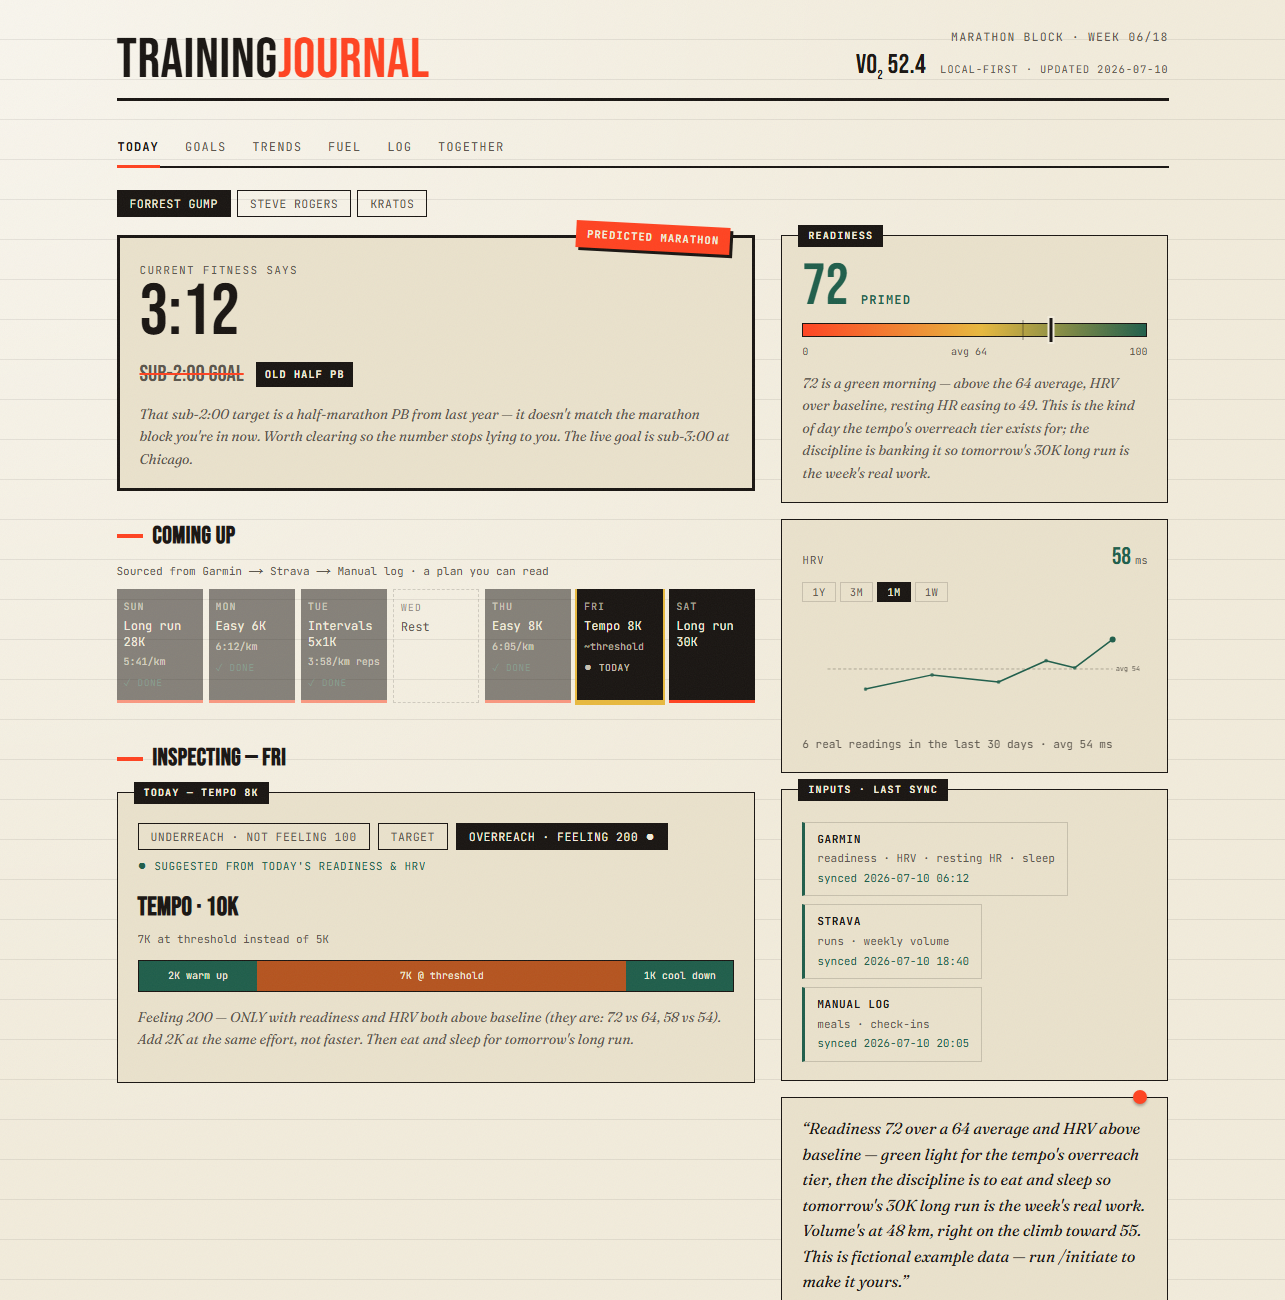
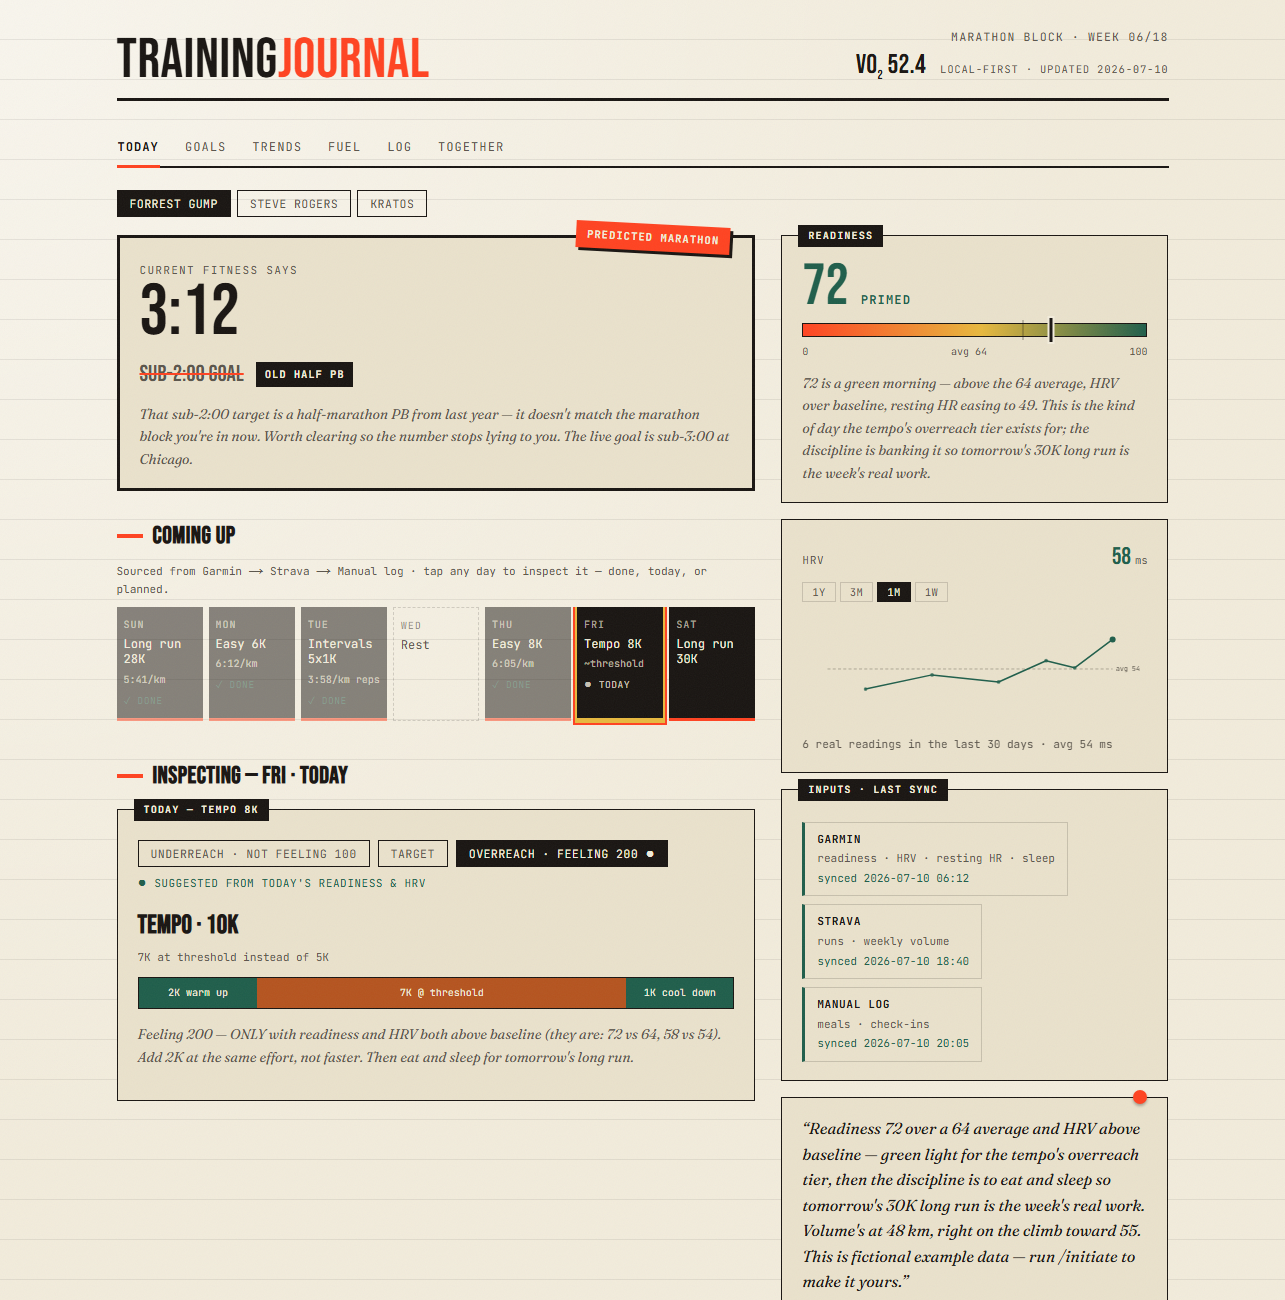
Click any day to inspect its workout + fix mobile overflow
Inspect:
- The week strip is now interactive — click (or keyboard-select) any day to
  load it into the Inspecting panel: past (shows what was completed), today
  (the tiered session), or planned (day-of detail note). Replaces the fixed
  Today + Up-next pair with one selection-driven panel; the selected day is
  outlined. Falls back to today when a stored date isn't in the current
  person's week.

Mobile:
- Root cause of the ~390px horizontal overflow was the grid min-width:auto
  trap: `.dash` used `grid-template-columns: 1fr` (= minmax(auto,1fr)), so the
  column refused to shrink below content and pushed the page wider. Fixed with
  minmax(0,1fr) + min-width:0 on the grid children.
- Harden auto-fit grids with minmax(min(Xpx,100%),1fr); add body overflow-x:
  clip as a sticky-safe net.
- Mobile refinements: scrollable nav, left-aligned header meta, wrapping
  strength table, smaller display type, in-flow race-bib.

Refresh the hero screenshot (the strip now says "tap any day to inspect").

Changed region(s): [[0.0934, 0.4308, 0.5914, 0.8308], [0.3735, 0.4308, 0.5914, 0.5846]]

diff --git a/app/page.tsx b/app/page.tsx
@@ -181,8 +181,14 @@ function SessionCard({ session, data }: { session: Session; data: PersonData }) 
           <p className="why">{detail.why}</p>
         </>
       )}
-      {!detail && !session.note && session.kind !== "rest" && session.status === "upcoming" && (
-        <p className="hint">Full detail lands the morning of — workouts are generated day-of from that day&apos;s readiness.</p>
+      {!detail && (
+        <p className="hint">
+          {session.kind === "rest"
+            ? "Rest day — recovery is the session."
+            : session.status === "done"
+            ? `Completed${session.sub ? ` · ${session.sub}` : ""}${session.note ? "." : " — logged from your tracker."}`
+            : `Planned${session.sub ? ` · ${session.sub}` : ""}. Full detail lands the morning of — workouts are generated day-of from that day's readiness.`}
+        </p>
       )}
     </div>
   );
@@ -285,6 +291,7 @@ export default function Page() {
   });
   const [personIdx, setPersonIdx] = useState(0);
   const [tab, setTab] = useState<TabId>("today");
+  const [inspectDate, setInspectDate] = useState<string | null>(null);
 
   // Deep links: `#goals` selects a tab, `#goals.kratos` a tab + person. Read
   // once on mount (never in the useState initializer) so server and first
@@ -316,9 +323,15 @@ export default function Page() {
   const person = snapshot.people[personIdx];
   const d = person.data;
   const today = d.week.find((s) => s.status === "today");
-  const upNext = d.week.find((s) => s.status === "upcoming" && s.tiers);
   const readiness = d.metrics.find((m) => m.key === "readiness");
   const hrv = d.metrics.find((m) => m.key === "hrv");
+
+  // Which day the Inspecting panel shows — click any day in the strip. Defaults
+  // to today; a stored date that isn't in this person's week (e.g. after
+  // switching people) falls back to their today rather than showing nothing.
+  const fallbackSession = today ?? d.week.find((s) => s.status === "upcoming") ?? d.week[0];
+  const inspected =
+    (inspectDate ? d.week.find((s) => s.date === inspectDate) : undefined) ?? fallbackSession;
 
   // Tabs are the union across people, so a sparse snapshot never shows an
   // empty tab. Together only appears when there's more than one person.
@@ -386,14 +399,28 @@ export default function Page() {
             </div>
 
             <h2 className="section">Coming up</h2>
-            {d.sources && d.sources.length > 0 && (
-              <p className="hint" style={{ margin: "-4px 0 8px" }}>
-                Sourced from {d.sources.map((s) => s.name).join(" → ")} · a plan you can read
-              </p>
-            )}
+            <p className="hint" style={{ margin: "-4px 0 8px" }}>
+              {d.sources && d.sources.length > 0
+                ? `Sourced from ${d.sources.map((s) => s.name).join(" → ")} · `
+                : ""}
+              tap any day to inspect it — done, today, or planned.
+            </p>
             <div className="week-strip">
               {d.week.map((s) => (
-                <div key={s.date} className="week-day" data-today={s.status === "today"} data-status={s.status}>
+                <div
+                  key={s.date}
+                  className="week-day"
+                  data-today={s.status === "today"}
+                  data-status={s.status}
+                  data-selected={s.date === inspected?.date}
+                  role="button"
+                  tabIndex={0}
+                  aria-pressed={s.date === inspected?.date}
+                  onClick={() => setInspectDate(s.date)}
+                  onKeyDown={(e) => {
+                    if (e.key === "Enter" || e.key === " ") { e.preventDefault(); setInspectDate(s.date); }
+                  }}
+                >
                   <div className="d">{s.day}</div>
                   <div className="l">{s.label}</div>
                   {s.sub && <div className="wd-sub">{s.sub}</div>}
@@ -403,17 +430,13 @@ export default function Page() {
               ))}
             </div>
 
-            {today && (
+            {inspected && (
               <>
-                <h2 className="section">Inspecting — {today.day}</h2>
-                <SessionCard session={today} data={d} />
-              </>
-            )}
-
-            {upNext && (
-              <>
-                <h2 className="section">Up next</h2>
-                <SessionCard session={upNext} data={d} />
+                <h2 className="section">
+                  Inspecting — {inspected.day}
+                  {inspected.status === "today" ? " · today" : ` · ${inspected.date}`}
+                </h2>
+                <SessionCard key={inspected.date} session={inspected} data={d} />
               </>
             )}
           </div>

diff --git a/app/globals.css b/app/globals.css
@@ -17,6 +17,7 @@ body {
   background: var(--paper);
   color: var(--ink);
   font: 16px/1.6 var(--font-serif), serif;
+  overflow-x: clip; /* never scroll the page sideways; inner strips scroll on their own */
   background-image:
     repeating-linear-gradient(180deg, transparent, transparent 39px, var(--line) 40px),
     radial-gradient(ellipse at top left, rgba(255, 255, 255, .5), transparent 60%);
@@ -37,9 +38,9 @@ header.site .sub { font-family: var(--mono); font-size: 11.5px; color: var(--ink
 h2.section { font-family: var(--disp); font-size: 24px; letter-spacing: .02em; margin: 30px 0 12px; display: flex; align-items: center; gap: 10px; }
 h2.section::before { content: ""; width: 26px; height: 4px; background: var(--flare); }
 
-.metric-grid { display: grid; grid-template-columns: repeat(auto-fill, minmax(300px, 1fr)); gap: 16px; }
+.metric-grid { display: grid; grid-template-columns: repeat(auto-fill, minmax(min(300px, 100%), 1fr)); gap: 16px; }
 
-.goal-grid { display: grid; grid-template-columns: repeat(auto-fit, minmax(280px, 1fr)); gap: 16px; margin-top: 16px; }
+.goal-grid { display: grid; grid-template-columns: repeat(auto-fit, minmax(min(280px, 100%), 1fr)); gap: 16px; margin-top: 16px; }
 .goal-nums { font-family: var(--mono); font-size: 12.5px; margin-top: 4px; display: flex; gap: 8px; flex-wrap: wrap; }
 .goal-nums .arrow { color: var(--ink-soft); }
 .goal-nums .want { color: var(--track); font-weight: 700; }
@@ -63,8 +64,9 @@ table.fuel-table tr.total td { border-top: 2px solid var(--ink); border-bottom: 
 .upd { font-family: var(--mono); font-size: 10.5px; text-transform: uppercase; letter-spacing: .08em; color: var(--ink-soft); }
 
 /* Dashboard two-column layout */
-.dash { display: grid; grid-template-columns: 1fr; gap: 22px; align-items: start; }
+.dash { display: grid; grid-template-columns: minmax(0, 1fr); gap: 22px; align-items: start; }
 @media (min-width: 900px) { .dash { grid-template-columns: minmax(0, 1.65fr) minmax(0, 1fr); gap: 26px; } }
+.dash-main, .dash-side { min-width: 0; } /* let grid tracks shrink below content min-content */
 .dash-main > .section:first-of-type { margin-top: 24px; }
 .dash-side { display: flex; flex-direction: column; gap: 16px; }
 @media (min-width: 900px) { .dash-side { position: sticky; top: 16px; } }
@@ -106,7 +108,7 @@ table.fuel-table tr.total td { border-top: 2px solid var(--ink); border-bottom: 
 .src-cap[data-stale="true"] { color: var(--mod); }
 
 /* Together — everyone side by side */
-.together-grid { display: grid; grid-template-columns: repeat(auto-fit, minmax(280px, 1fr)); gap: 16px; margin-top: 8px; }
+.together-grid { display: grid; grid-template-columns: repeat(auto-fit, minmax(min(280px, 100%), 1fr)); gap: 16px; margin-top: 8px; }
 .tog-card { border: 1px solid var(--ink); background: var(--paper2); padding: 16px 18px; border-top: 4px solid var(--flare); }
 .tog-head { display: flex; justify-content: space-between; align-items: baseline; gap: 8px; margin-bottom: 8px; }
 .tog-name { font-family: var(--disp); font-size: 22px; letter-spacing: .01em; }
@@ -123,10 +125,14 @@ table.fuel-table tr.total td { border-top: 2px solid var(--ink); border-bottom: 
 .zoom-pill { padding: 2px 9px; font-size: 10.5px; border-color: var(--line); }
 
 .week-strip { display: flex; gap: 6px; overflow-x: auto; padding-bottom: 6px; }
-.week-day { flex: 1 1 60px; min-width: 0; background: var(--ink); color: var(--paper); font-family: var(--mono); padding: 10px 7px; border-bottom: 3px solid var(--flare); }
+.week-day { flex: 1 1 60px; min-width: 0; background: var(--ink); color: var(--paper); font-family: var(--mono); padding: 10px 7px; border-bottom: 3px solid var(--flare); cursor: pointer; transition: opacity .12s, transform .08s; }
+.week-day:hover { opacity: 1; transform: translateY(-2px); }
+.week-day:focus-visible { outline: 2px solid var(--flare); outline-offset: 2px; }
 .week-day[data-status="rest"] { background: transparent; color: var(--ink-soft); border: 1px dashed var(--line); }
 .week-day[data-today="true"] { border-bottom-color: var(--chalk); box-shadow: 0 0 0 2px var(--chalk); }
 .week-day[data-status="done"] { opacity: .5; }
+.week-day[data-selected="true"] { opacity: 1; box-shadow: 0 0 0 2px var(--flare); }
+.week-day[data-selected="true"][data-today="true"] { box-shadow: 0 0 0 2px var(--chalk), 0 0 0 4px var(--flare); }
 .week-day .d { font-size: 10px; text-transform: uppercase; letter-spacing: .1em; opacity: .65; }
 .week-day .l { font-size: 12px; margin-top: 4px; line-height: 1.3; }
 
@@ -167,7 +173,27 @@ table.strength tr.ex-first td { border-top: 1px solid var(--ink); }
 .err { color: var(--flare); font-size: 13px; font-weight: 600; }
 
 @media (max-width: 640px) {
-  .wordmark { font-size: 40px; }
-  .hero-num { font-size: 52px; }
+  .wrap { padding: 22px 16px 56px; }
+  .wordmark { font-size: 38px; }
+  .hero-num { font-size: 50px; }
+  .gauge-num { font-size: 46px; }
   .metric-grid { grid-template-columns: minmax(0, 1fr); }
+
+  /* header stacks; align the meta with the wordmark instead of the right edge */
+  header.site { align-items: flex-start; }
+  .site-meta { text-align: left; align-items: flex-start; }
+  .status-sub { justify-content: flex-start; }
+
+  /* nav becomes a single scrollable row rather than wrapping awkwardly */
+  .tabs { gap: 18px; flex-wrap: nowrap; overflow-x: auto; scrollbar-width: none; }
+  .tabs::-webkit-scrollbar { display: none; }
+  .tab { flex: 0 0 auto; }
+
+  /* strength table: let the exercise name wrap and tighten padding */
+  table.strength th, table.strength td { padding: 6px 6px; }
+  table.strength td.ex { white-space: normal; }
+
+  .source { min-width: 0; flex: 1 1 42%; }
+  /* in-flow race-bib on mobile so it can't clip past the card corner */
+  .hero .bib { position: static; transform: none; box-shadow: 2px 2px 0 var(--ink); display: block; width: fit-content; margin: 0 0 12px; font-size: 9.5px; }
 }